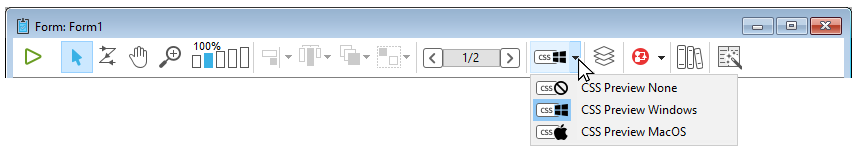
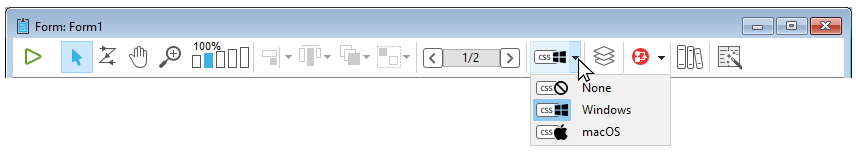
Minor updates
Update toolbar images, add note about font/object size

diff --git a/docs/FormEditor/formEditor.md b/docs/FormEditor/formEditor.md
@@ -407,7 +407,7 @@ The Form editor provides two options for viewing styled objects:
 
 *	**CSS Preview (None)**<br>CSS values are not applied, only JSON form values are applied and displayed in the Form Editor. 
 
-*	**CSS Preview Windows** / **CSS Preview macOS**<br>[Style sheet attributes](stylesheets.html) are applied and displayed in the Form Editor. 
+*	**CSS Preview (Windows / macOS)**<br>[Style sheet attributes](stylesheets.html) are applied and displayed in the Form Editor. Note that if a font size too large for an object is defined in a style sheet or JSON, the object will automatically be resized to accommodate the font size.
 
 By default, forms (including inherited forms and subforms) are opened in the CSS Preview mode for your operating system when [CSS files](createStylesheet.md) have been defined. 
 
@@ -421,11 +421,11 @@ The Form editor toolbar provides a CSS button for viewing styled objects:
 
 Select one of the following preview modes from the menu: 
 
-|Toolbar Icon|CSS Mode |Description|
+|Toolbar Icon|CSS Preview Mode |Description|
 |---|---|---|
-|![](assets/en/FormEditor/cssNo.png)|CSS Preview None|No CSS values or icons displayed|
-|![](assets/en/FormEditor/cssWin.png)|CSS Preview Windows|CSS icons and CSS values for Windows platform are displayed in the Property List. CSS values applied in form preview area.|
-|![](assets/en/FormEditor/cssMac.png)|CSS Preview macOS|CSS icons and CSS values for macOS platform are displayed in the Property List. CSS values applied in form preview area.|
+|![](assets/en/FormEditor/cssNo.png)|None|No CSS values or icons displayed|
+|![](assets/en/FormEditor/cssWin.png)|Windows|CSS icons and CSS values for Windows platform are displayed in the Property List. CSS values applied in form preview area.|
+|![](assets/en/FormEditor/cssMac.png)|macOS|CSS icons and CSS values for macOS platform are displayed in the Property List. CSS values applied in form preview area.|
 
 The CSS preview mode reflects the priority order applied to style sheets vs JSON attributes as defined in the [JSON vs Style Sheet](stylesheets.html#json-vs-style-sheet) section.
 
@@ -433,15 +433,6 @@ Once a CSS preview mode is selected, objects are automatically displayed with th
 
 >When copying or duplicating objects containing properties managed by style sheets, only the style sheet references are copied. Attribute values set by the style sheet are not copied to the JSON values.
 
-
-
-### Viewing loaded style sheets
-
-Loaded style sheet files are listed below the CSS Preview options. Selecting one will open the style sheet in your default text editor.
-
-![](assets/en/FormEditor/cssInvalidSyntax.png)
-
->If a style sheet cannot be loaded, it is displayed with a red X icon (as shown above).
 
 ### CSS support in the Property List
 
